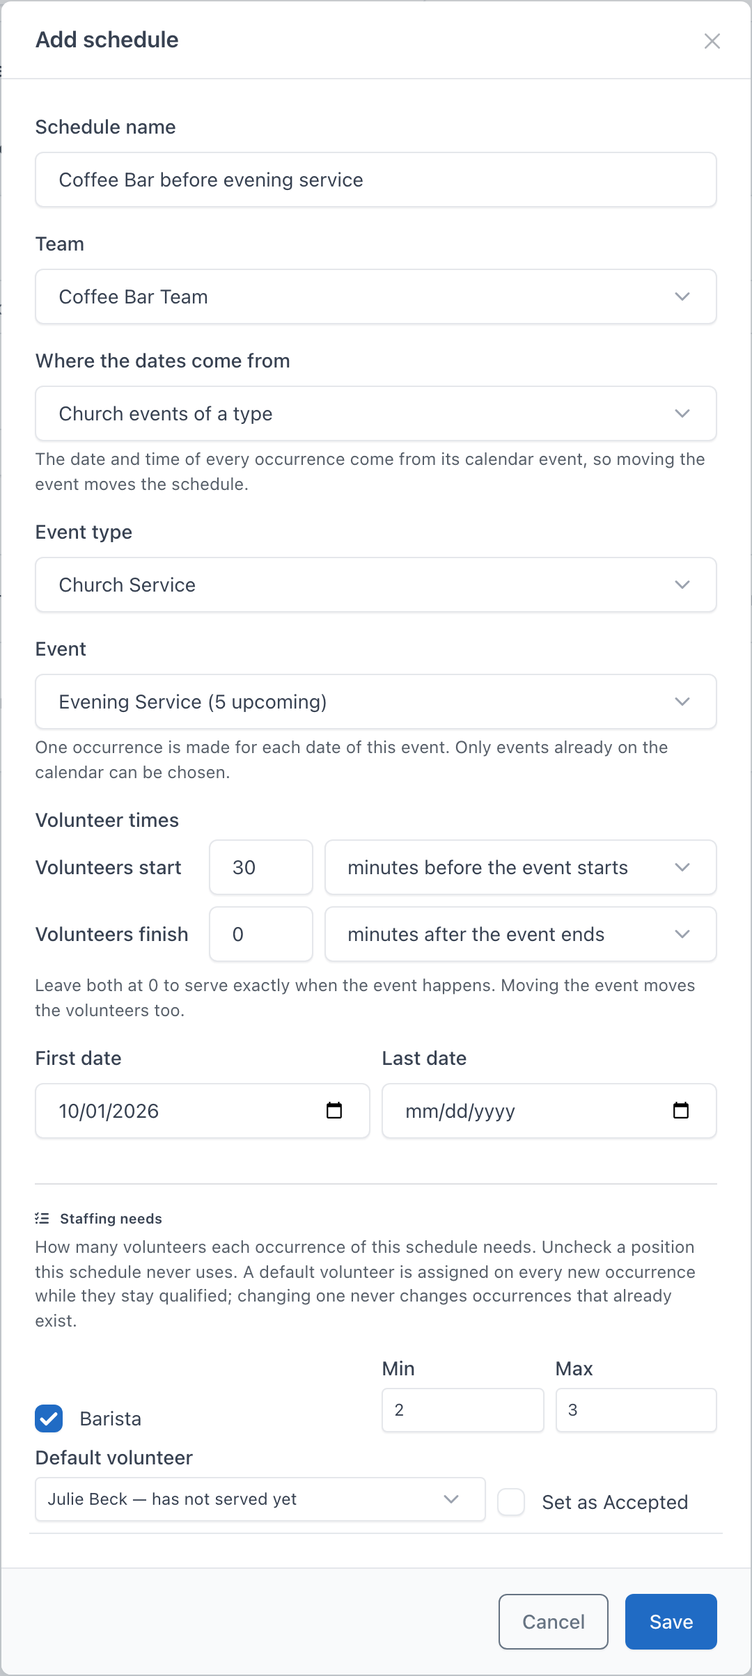
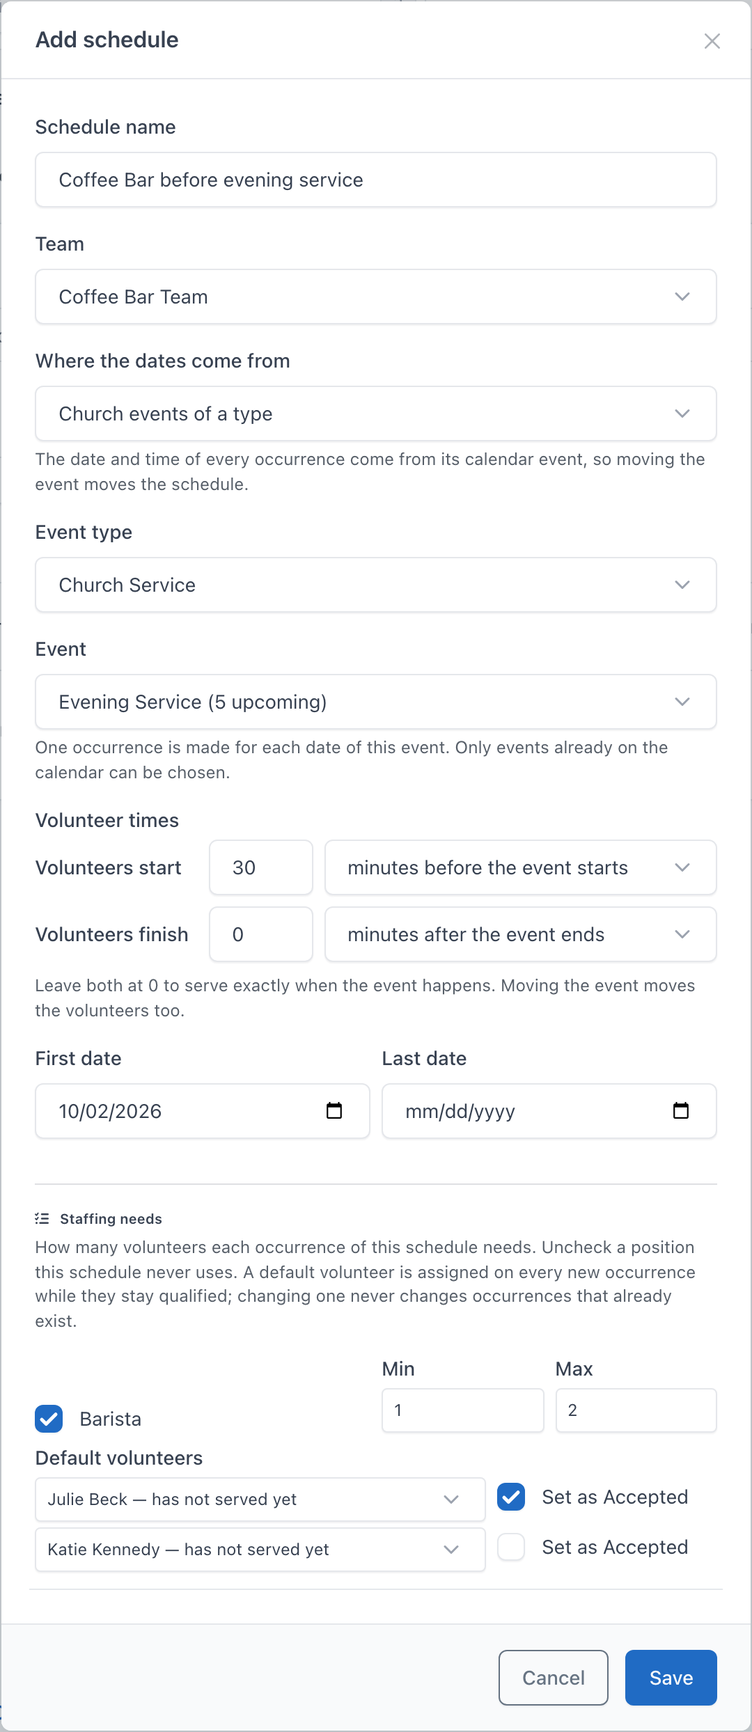
Volunteer v2 docs: staffing reads as status words, several default volunteers
Counts read "Needs 2 more", "Covered · 1 more welcome", "Optional",
"Full · 3 of 3" or "Not needed this time" instead of "1 / 0" and
"N still needed"; the staffing view explains the words once and the
dashboard, Occurrences tab, Calendar tab and event Volunteers card point
there. A schedule's staffing need and the Generate dialog now take one
default volunteer per place up to Max, each with its own Set as
Accepted, and lowering Max below the chosen ones blocks Save.

Retakes the dashboard (admin and coordinator), Calendar tab, staffing
view, Assign dialog, Add schedule and Generate occurrences screenshots.

diff --git a/docs/user-guide/ministries/schedules-and-occurrences.md b/docs/user-guide/ministries/schedules-and-occurrences.md
@@ -28,7 +28,7 @@ On the ministry page, open the **Schedules** tab. Each row shows the schedule's 
 
 The rest of the dialog, and the **Save** button, appear only once an event or a class is chosen. A schedule must follow at least one event that is still to come.
 
-![Add schedule, with a default volunteer](/img/user-guide/ministries/add-schedule.png)
+![Add schedule, with two default volunteers for a position with Max 2](/img/user-guide/ministries/add-schedule.png)
 
 | Where the dates come from | Then choose | The schedule follows |
 |---|---|---|
@@ -59,11 +59,12 @@ Each value can be at most 720 minutes (12 hours). The times are always worked ou
 
 **Staffing needs** has one row per active position of the team, each with **Min** and **Max**. Every position starts ticked on a new schedule; untick a position the schedule never uses. A schedule with no staffing needs makes occurrences that need nobody, so there is nothing to fill. Raising **Min** above **Max** raises Max with it, and a Max below Min is refused.
 
-Each row also has a **Default volunteer**. The list offers only people qualified for that position, people in the volunteer pool first and whoever served least recently at the top. Choose someone and they are assigned on every new occurrence of this schedule for as long as they stay qualified, and asked to respond. Tick **Set as Accepted** to record their acceptance as well, so they are not asked; reminders are still sent. Choose **None** to fill the position week by week.
+Each row also has **Default volunteers**: one list per place the position has, so a position with **Max** 2 has two lists (up to 10 lists; with a higher Max, one more list than people already chosen). Each list offers only people qualified for that position, people in the volunteer pool first and whoever served least recently at the top, and someone chosen in one list is not offered in the others. Everyone chosen is assigned on every new occurrence of this schedule, in the order of the lists, for as long as they stay qualified, and asked to respond. Tick **Set as Accepted** beside a person to record their acceptance as well, so they are not asked; reminders are still sent. Leave a list on **None** to fill that place week by week.
 
-- Changing a default never changes occurrences that already exist. It applies to occurrences made from then on.
-- If the default volunteer loses the qualification, the dialog shows them as *"(no longer qualified)"*, and the position is left open on new occurrences until they are qualified again.
-- **Remove Volunteer** on the [Volunteers tab](./volunteers-and-qualifications.md#removing-a-volunteer) clears the person as a default on every schedule of the ministry.
+- Changing the defaults never changes occurrences that already exist. It applies to occurrences made from then on.
+- If a default volunteer loses the qualification, their list shows them as *"(no longer qualified)"*, and their place is left open on new occurrences until they are qualified again. The other default volunteers of the position are still assigned.
+- Lowering **Max** below the number of default volunteers keeps every choice but marks the extra ones *"Over Max: remove this one or raise Max."*, and **Save** is refused with, for example, *"Barista: Max is 1 but 2 default volunteers are chosen. Remove one or raise Max."*
+- **Remove Volunteer** on the [Volunteers tab](./volunteers-and-qualifications.md#removing-a-volunteer) clears the person as a default on every schedule of the ministry. The position's other default volunteers stay.
 
 ## What happens when you save
 
@@ -75,7 +76,7 @@ Editing a schedule never makes occurrences. Changing what a schedule follows (wh
 
 Occurrences are made only up to the **scheduling horizon**: **Admin → Ministry Settings → Scheduling horizon (weeks)**, 8 weeks by default, from 1 to 52. The horizon applies to every schedule in the church, including schedules with a later last date.
 
-Nobody has to come back to make more. Once a day the background jobs **top up** every active schedule of every active ministry: each one gets occurrences for its events up to the horizon, and each position's default volunteer is assigned on the new ones. Ministry Settings shows when the top-up last ran and what it made, for example *"Schedules last topped up: Oct 1, 5:13 PM — 0 new occurrences"*, and **Run background jobs now** on that page runs it at once. See the [Ministry Settings](../../administration/system-settings.md#ministry-settings) reference.
+Nobody has to come back to make more. Once a day the background jobs **top up** every active schedule of every active ministry: each one gets occurrences for its events up to the horizon, and each position's default volunteers are assigned on the new ones. Ministry Settings shows when the top-up last ran and what it made, for example *"Schedules last topped up: Oct 1, 5:13 PM — 0 new occurrences"*, and **Run background jobs now** on that page runs it at once. See the [Ministry Settings](../../administration/system-settings.md#ministry-settings) reference.
 
 ## Generate occurrences
 
@@ -83,12 +84,12 @@ Nobody has to come back to make more. Once a day the background jobs **top up** 
 
 ![The Generate occurrences dialog](/img/user-guide/ministries/generate-occurrences.png)
 
-The first line says how far the run reaches: *"Occurrences are created for events in the next 8 weeks (through Nov 26)."*, or *"Occurrences are created for events through Nov 1, when this schedule ends."* Below it, each position the schedule needs has **Fill by default with**. This is the schedule's default volunteer: the list opens on the saved choice, and whatever the dialog shows when you click **Generate** is saved on the schedule. **Leave open** means no default. A position nobody is qualified for says *"Nobody is qualified for this position yet, so it stays open."*
+The first line says how far the run reaches: *"Occurrences are created for events in the next 8 weeks (through Nov 27)."*, or *"Occurrences are created for events through Nov 1, when this schedule ends."* Below it, each position the schedule needs is listed with how many it needs (for example *"Teacher — 1 to 2 needed"*) and **Fill by default with**. These are the schedule's default volunteers, one list per place up to Max, each with its own **Set as Accepted**, as in [the schedule dialog](#staffing-needs-and-default-volunteers). The lists open on the saved choices, and whatever the dialog shows when you click **Generate** is saved on the schedule. **Leave open** leaves that place without a default. A position nobody is qualified for says *"Nobody is qualified for this position yet, so it stays open."*
 
 Click **Generate**. The result appears as a message:
 
 - **Occurrences made**: for example *"8 occurrences created, 0 were already there. 16 volunteers assigned"*.
-- **Nothing new**: *"No new occurrences. All 8 events through Nov 26 already have one."* Running Generate again is always safe: it never makes a second occurrence for the same event, and default volunteers go only on the occurrences that the run makes.
+- **Nothing new**: *"No new occurrences. All 8 events through Nov 27 already have one."* Running Generate again is always safe: it never makes a second occurrence for the same event, and default volunteers go only on the occurrences that the run makes.
 - **No events found**: the dialog stays open with an amber warning in the schedule's own terms, for example *"No events on the calendar use Faith City as their class between Oct 4 and Nov 29."* For a class or a ministry schedule, a coordinator also gets a button such as **New recurring event for Faith City**, which opens [New recurring event](./events-and-calendar.md#new-event-and-new-recurring-event) on the Calendar tab with the class or the title filled in.
 
 A single run makes at most 366 occurrences.
@@ -113,10 +114,13 @@ The **Occurrences** tab of the ministry page lists the dates every schedule prod
 
 | Icon | Meaning |
 |---|---|
-| Green check | Every position is filled and confirmed. |
-| Amber hourglass | Every position is assigned, but someone has not answered yet. |
-| Red triangle | At least one position is still short. The tooltip says how many are still needed. |
+| Green check | Every position has the people it needs (*Full*, *Covered · N more welcome* or *Optional*), and everyone has answered. |
+| Amber hourglass | Every position has the people it needs, but someone has not answered yet. |
+| Red triangle | At least one position is still short. The tooltip says how many more are needed in all and which positions are short, for example *"Needs 3 more"*, *"0 of 3–4"* and *"2 Faith City · Helper, 1 Faith City · Teacher"*. |
+| Grey circle | Nothing is required (every Min is 0) and nobody has signed up yet. |
 | Grey question mark | No staffing needs set, so there is nothing to fill. |
+
+The tooltip uses the same words as the rest of Volunteer Management; see [How staffing reads](./staffing-an-occurrence.md#how-staffing-reads).
 
 - Tick one or more rows and click **Delete** (it reads *Delete (N)*) to remove those occurrences. Their assignments, the volunteers' responses, any substitutions and the queued reminders go with them. The calendar events stay.
 - **Staff an event** staffs a single event that no schedule follows, such as a workday. See [Staff an event](./events-and-calendar.md#staff-an-event). Its occurrence is listed with a **single event** badge.

diff --git a/docs/user-guide/ministries/ministry-dashboard.md b/docs/user-guide/ministries/ministry-dashboard.md
@@ -14,10 +14,10 @@ description: What needs your attention — gaps to fill, replies still outstandi
 
 Top to bottom, in the order that matters:
 
-1. **Needs filling** — every position still short in the window, with the date, ministry and team, a red *"N still needed"* badge and a **Fill** button that opens the [staffing view](./staffing-an-occurrence.md) on that date. The red count in the card header is the total. When nothing is short the card says *"Nothing is short — every position in this window has the people it needs."*
+1. **Needs filling** — every position still short in the window, with the date, ministry and team, a red badge such as *"Needs 2 more"* (its tooltip gives the numbers, for example *"0 of 2–3"*) and a **Fill** button that opens the [staffing view](./staffing-an-occurrence.md) on that date. The red count in the card header is the total number of people still needed. When nothing is short the card says *"Nothing is short — every position in this window has the people it needs."*
 2. **Waiting for a reply** — assignments still **Pending**, each with the person, position, date, ministry and team. A yellow **Due soon** badge marks those inside the reminder lead time. The row menu offers **Open the occurrence**, where you can record their answer, send the message again or cancel the assignment, and **View person**.
 3. **Substitution requests** — one card per proposal (*"Lena Black asks Jean Hart to take their place"*) with **Approve** and **Reject**. See [Substitutions](./substitutions.md).
-4. **Upcoming** — a table of the occurrences in the window: **When** (the volunteers' start time), **Ministry** and team, **Schedule**, **Staffed** (for example *0 / 3*), **Status** and an action menu with **Staff this occurrence**, **Open the ministry** and, unless its event was deleted, **View the event**. The Staffed badge is green when full and confirmed, amber when full but someone has not answered, and red when short.
+4. **Upcoming** — a table of the occurrences in the window: **When** (the volunteers' start time), **Ministry** and team, **Schedule**, **Staffed** (for example *Needs 2 more*, *Covered · 1 more welcome* or *Full*), **Status** and an action menu with **Staff this occurrence**, **Open the ministry** and, unless its event was deleted, **View the event**. The Staffed badge is red when a position is short, amber when every position has its people but someone has not answered, green when everyone has answered, and grey for a date that requires nobody and has nobody yet (*Optional*) or has *No staffing needs set*. Its tooltip gives the numbers, for example *"3 assigned, 3 needed, room for 1 more · 2 not yet confirmed"*. See [How staffing reads](./staffing-an-occurrence.md#how-staffing-reads).
 5. **My ministries and teams** — the ministries and teams the viewer manages. For a team leader on a staff login this card is their way in: they lead a team, not the ministry above it, so the ministry name is marked **View only**.
 6. **Notifications** — the number of volunteer emails that could not be delivered. An administrator gets a **Ministry Settings** button; anyone else is asked to tell an administrator. See [Volunteer email and reminders](./email-and-reminders.md).
 

diff --git a/docs/user-guide/ministries/events-and-calendar.md b/docs/user-guide/ministries/events-and-calendar.md
@@ -28,7 +28,7 @@ The **Calendar** tab of the [ministry page](./ministries-teams-positions.md) lis
 | **Event** | The title, linked to the event's page, with its event type underneath and an *Inactive* badge when the event is inactive. |
 | **Calendars** | The calendars the event is on. |
 | **Class** | The Sunday School class that is the event's Linked Group, if any. |
-| **Staffing** | One badge per team of this ministry that staffs the event, for example *"Faith City: 3 of 3"*: red while a position is short, yellow while someone has not answered, green when every position is filled and confirmed. Each badge opens that occurrence. *Not staffed* when no team staffs it. A past event also shows its headcount, for example *"Headcount: 42"* or *"No headcount recorded yet"*. |
+| **Staffing** | One badge per team of this ministry that staffs the event, for example *"Faith City: Needs 2 more"* or *"Faith City: Covered · 1 more welcome"*: red while a position is short, yellow while someone has not answered, green when every position has its people and everyone has answered, grey when nothing is required. The tooltip gives the numbers, for example *"1 of 3–4"*. Each badge opens that occurrence. *Not staffed* when no team staffs it. A past event also shows its headcount, for example *"Headcount: 42"* or *"No headcount recorded yet"*. |
 
 The action menu of a row offers **Staff this event** (for an upcoming, active event: the [Staff an event](#staff-an-event) dialog with the event already chosen), **Edit event**, which opens the church event editor, and **View event**.
 
@@ -104,7 +104,7 @@ In the church event editor (and in the calendar's side-panel editor), under **Sh
 
 ## The Volunteers card on the event view
 
-An event with volunteer occurrences shows a **Volunteers** card on its detail page: the ministry, the schedule, *"N of M filled"* and a badge (*"N still needed"*, **Fully staffed**, or **No staffing needs set**), with a **Manage staffing** link to the [staffing view](./staffing-an-occurrence.md). An event that no team staffs shows no card.
+An event with volunteer occurrences shows a **Volunteers** card on its detail page: the ministry, the schedule, the numbers (for example *"3 assigned, 3 needed, room for 1 more"*) and a badge in the same words as the ministry pages (*"Needs 2 more"*, *"Covered · 1 more welcome"*, *"Full"*, *"Optional"*, or **No staffing needs set**; see [How staffing reads](./staffing-an-occurrence.md#how-staffing-reads)), with a **Manage staffing** link to the [staffing view](./staffing-an-occurrence.md). An event that no team staffs shows no card.
 
 ## Coordinators and events
 

diff --git a/docs/user-guide/ministries/staffing-an-occurrence.md b/docs/user-guide/ministries/staffing-an-occurrence.md
@@ -20,7 +20,7 @@ Dates and times on this page, and everywhere in Volunteer Management, follow Chu
 
 ## One card per position
 
-Each card shows **filled / needed** and the people assigned, each with a status badge and a row menu. A position that is short carries a *"N still needed"* banner; one with nobody on it shows *Nobody assigned yet*.
+Each card says in its header how the position stands, for example **Needs 2 more** or **Covered · 1 more welcome**, with the numbers on the line below (*"2 assigned, 2 needed, room for 1 more"*). Then come the people assigned, each with a status badge and a row menu. A position with nobody on it shows *Nobody assigned yet*.
 
 | Status | Meaning |
 |---|---|
@@ -30,6 +30,21 @@ Each card shows **filled / needed** and the people assigned, each with a status 
 | **Cancelled** | The coordinator took them off. The row stays, because it has history. |
 | **Substituted** | Someone else took their place — see [Substitutions](./substitutions.md). |
 | **Completed** | The occurrence has passed. |
+
+### How staffing reads
+
+A count is always a status word first and the numbers second. Min decides the colour and Max decides how much room is left.
+
+| Label | When | Colour |
+|---|---|---|
+| **Needs 2 more** | Fewer people than Min. The numbers read *"0 of 2–3"* (nobody yet, 2 to 3 wanted) or *"0 of 1"* when Min and Max are the same. | Red |
+| **Covered · 1 more welcome** | Min is met and Max leaves room for more, for example *"2 assigned, 2 needed, room for 1 more"*. | Green, or yellow while someone has not answered (*"· 2 not yet confirmed"*) |
+| **Optional · up to 2 welcome** | Min is 0 and nobody is on it yet. | Grey |
+| **Optional · 1 of up to 2** | Min is 0 and someone is on it. | Green, or yellow while someone has not answered |
+| **Full · 3 of 3** | Max is reached. | Green, or yellow while someone has not answered |
+| **Not needed this time** | This occurrence's own needs set the position to Min 0 and Max 0. | Grey |
+
+A whole date (every position of the occurrence together, or one team on an event) reads the same way, added up: **Needs N more** with the total shortfall when any position is short, otherwise **Full** when no position has room, **Optional** when nothing is required, and **Covered · N more welcome** in every other case. The same words are used everywhere Volunteer Management shows a count: the [Ministry Dashboard](./ministry-dashboard.md), the tooltips on the Occurrences tab, the badges on the Calendar tab, the Volunteers card on an event and the member portal's volunteer pages.
 
 ### Assign a volunteer
 

diff --git a/docs/user-guide/ministries/volunteers-and-qualifications.md b/docs/user-guide/ministries/volunteers-and-qualifications.md
@@ -42,14 +42,14 @@ The rows are the pool **plus** anyone qualified for a position in view who is no
 For a team [linked to a Sunday School class](./ministries-teams-positions.md#linking-a-team-to-a-sunday-school-class), a tick also makes the person a **Teacher** of the class, and taking away their last tick in that team removes the Teacher role.
 
 :::tip A position nobody is qualified for cannot be staffed
-Before creating a schedule, make sure every position it needs has at least one tick. The staffing picker and the **Default volunteer** lists only ever offer qualified people, and the **Generate occurrences** dialog says *"Nobody is qualified for this position yet, so it stays open."*
+Before creating a schedule, make sure every position it needs has at least one tick. The staffing picker and the **Default volunteers** lists only ever offer qualified people, and the **Generate occurrences** dialog says *"Nobody is qualified for this position yet, so it stays open."*
 :::
 
 ## Removing a volunteer
 
-The **Actions** menu at the end of a row offers **Remove Volunteer** (ministry coordinators and above). It takes away every qualification the person holds in this ministry, cancels their assignments on upcoming occurrences, clears them as the [default volunteer](./schedules-and-occurrences.md#staffing-needs-and-default-volunteers) on every schedule of the ministry, and removes them from the pool Group. Past service history stays. The notification reports what was removed, for example *"Removed. 2 qualifications, 3 upcoming assignments, 2 schedule defaults."*
+The **Actions** menu at the end of a row offers **Remove Volunteer** (ministry coordinators and above). It takes away every qualification the person holds in this ministry, cancels their assignments on upcoming occurrences, clears them as a [default volunteer](./schedules-and-occurrences.md#staffing-needs-and-default-volunteers) on every schedule of the ministry (a position's other default volunteers stay), and removes them from the pool Group. Past service history stays. The notification reports what was removed, for example *"Removed. 2 qualifications, 3 upcoming assignments, 2 schedule defaults."*
 
-Taking away a single qualification is different: the person stays a schedule's default volunteer, and that position is left open on new occurrences until they are qualified again.
+Taking away a single qualification is different: the person stays one of the schedule's default volunteers, and their place is left open on new occurrences until they are qualified again.
 
 ## Where else qualifications show up
 

diff --git a/docs/user-guide/events.md b/docs/user-guide/events.md
@@ -166,7 +166,7 @@ To generate a report:
 When [Volunteer Management (v2)](./ministries/index.md) is on, volunteers are scheduled for calendar events: every volunteer occurrence follows an event, and the event stays in charge of the date and time. A ministry creates its own one-time and recurring events on its **Calendar** tab; a schedule can also follow church services (events of a type with one title) or a Sunday School class's meetings (events whose Linked Group is the class).
 
 - The event editor gains a **Volunteer Ministry** dropdown under **Linked Group** (open **Show more options**) that says which ministry owns the event. A ministry coordinator without the Add Events permission may create and edit events of their own ministry, and no other.
-- An event that has volunteer occurrences shows a **Volunteers** card on its detail page — the ministry, the schedule, *"N of M filled"*, a *still needed* / **Fully staffed** badge, and a **Manage staffing** link.
+- An event that has volunteer occurrences shows a **Volunteers** card on its detail page — the ministry, the schedule, how it stands (for example *"Needs 2 more"* or *"Covered · 1 more welcome"*) with the numbers, and a **Manage staffing** link.
 - A church calendar's settings gain **Ministries that may add events**, so that a ministry's coordinators may put its events on that calendar.
 - ChurchCRM 7.8.0 adds an event type named **Other** when there is none; a ministry's new events start with it unless **Admin → Ministry Settings** names another default type.
 

diff --git a/docs/user-guide/ministries/index.md b/docs/user-guide/ministries/index.md
@@ -58,7 +58,7 @@ If you have twenty minutes:
 2. On the ministry page, **Positions → Add position** for each role (say, Barista and Host).
 3. **Volunteers → Add Volunteer** a few people, then tick the positions each one can serve in.
 4. Make sure the events exist. A team that serves at Sunday worship can follow the services already on the church calendar. For the ministry's own events, open the **Calendar** tab and click **New recurring event** (or **New event**), then answer **Staff them** when the page asks *"Staff them now?"*
-5. **Schedules → Add schedule** (already filled in if you came from step 4): choose the events it follows, set how many of each position are needed and, if you like, who fills each one by default, and click **Save**. The occurrences for the next 8 weeks are made at once, and a daily background job keeps adding them.
+5. **Schedules → Add schedule** (already filled in if you came from step 4): choose the events it follows, set how many of each position are needed and, if you like, who fills them by default (as many people as the position's Max), and click **Save**. The occurrences for the next 8 weeks are made at once, and a daily background job keeps adding them.
 6. Back on the **Dashboard**, the dates that are still short appear under **Needs filling**. Click **Fill**, assign someone, and the gap is gone.
 
 Everything else — responses, reminders, substitutions, the member's own pages — follows from those six steps.

diff --git a/docs/user-guide/ministries/email-and-reminders.md b/docs/user-guide/ministries/email-and-reminders.md
@@ -14,7 +14,7 @@ Every subject is prefixed with the church name. Every body names the ministry, t
 
 | Message | Who receives it | When |
 |---|---|---|
-| **You have been scheduled to serve** | the volunteer | when a coordinator assigns them, or when a schedule assigns them as its default volunteer without *Set as Accepted* (on Save, Generate, Staff them or the daily top-up) |
+| **You have been scheduled to serve** | the volunteer | when a coordinator assigns them, or when a schedule assigns them as one of its default volunteers without *Set as Accepted* (on Save, Generate, Staff them or the daily top-up) |
 | **Reminder: you are scheduled to serve** | the volunteer | the configured number of hours before they start serving (see below); once per assignment |
 | **Thank you for signing up to serve** | the volunteer | when they sign themselves up on the Member Portal |
 | **Your substitute request was approved** / **was not approved** | the volunteer *and* the proposed substitute | when a coordinator decides a [substitution](./substitutions.md) |
